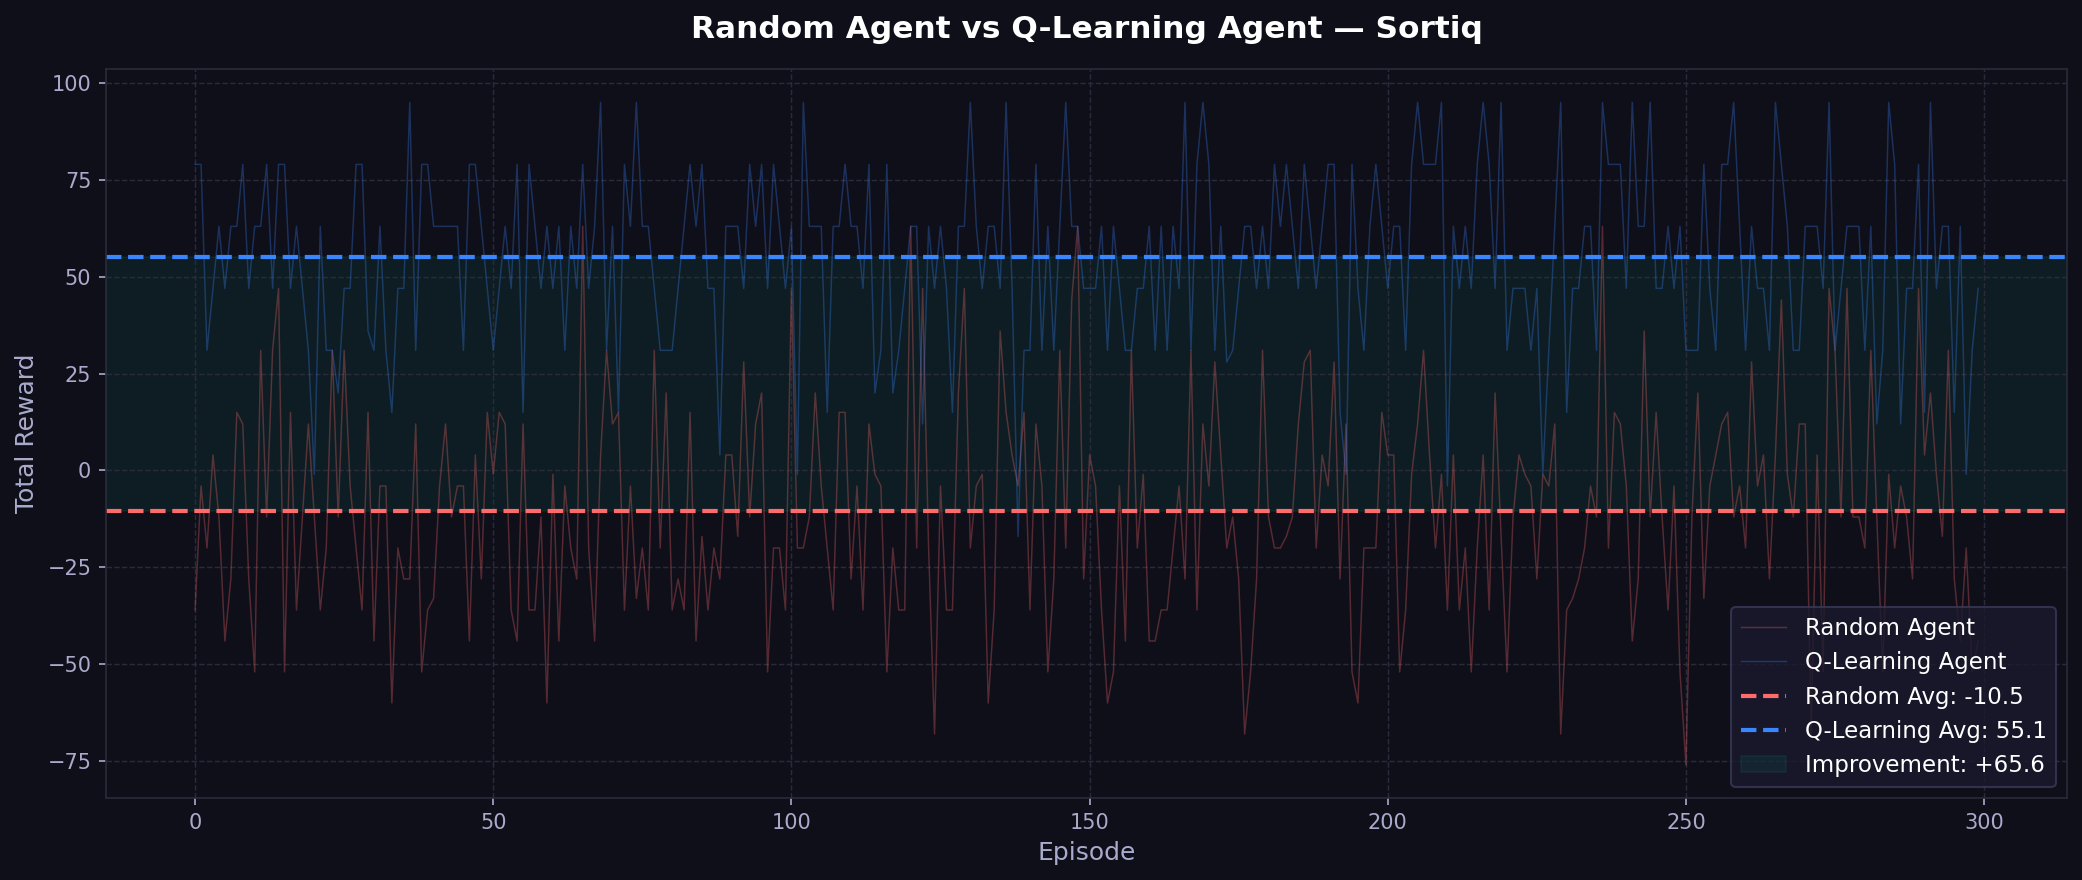
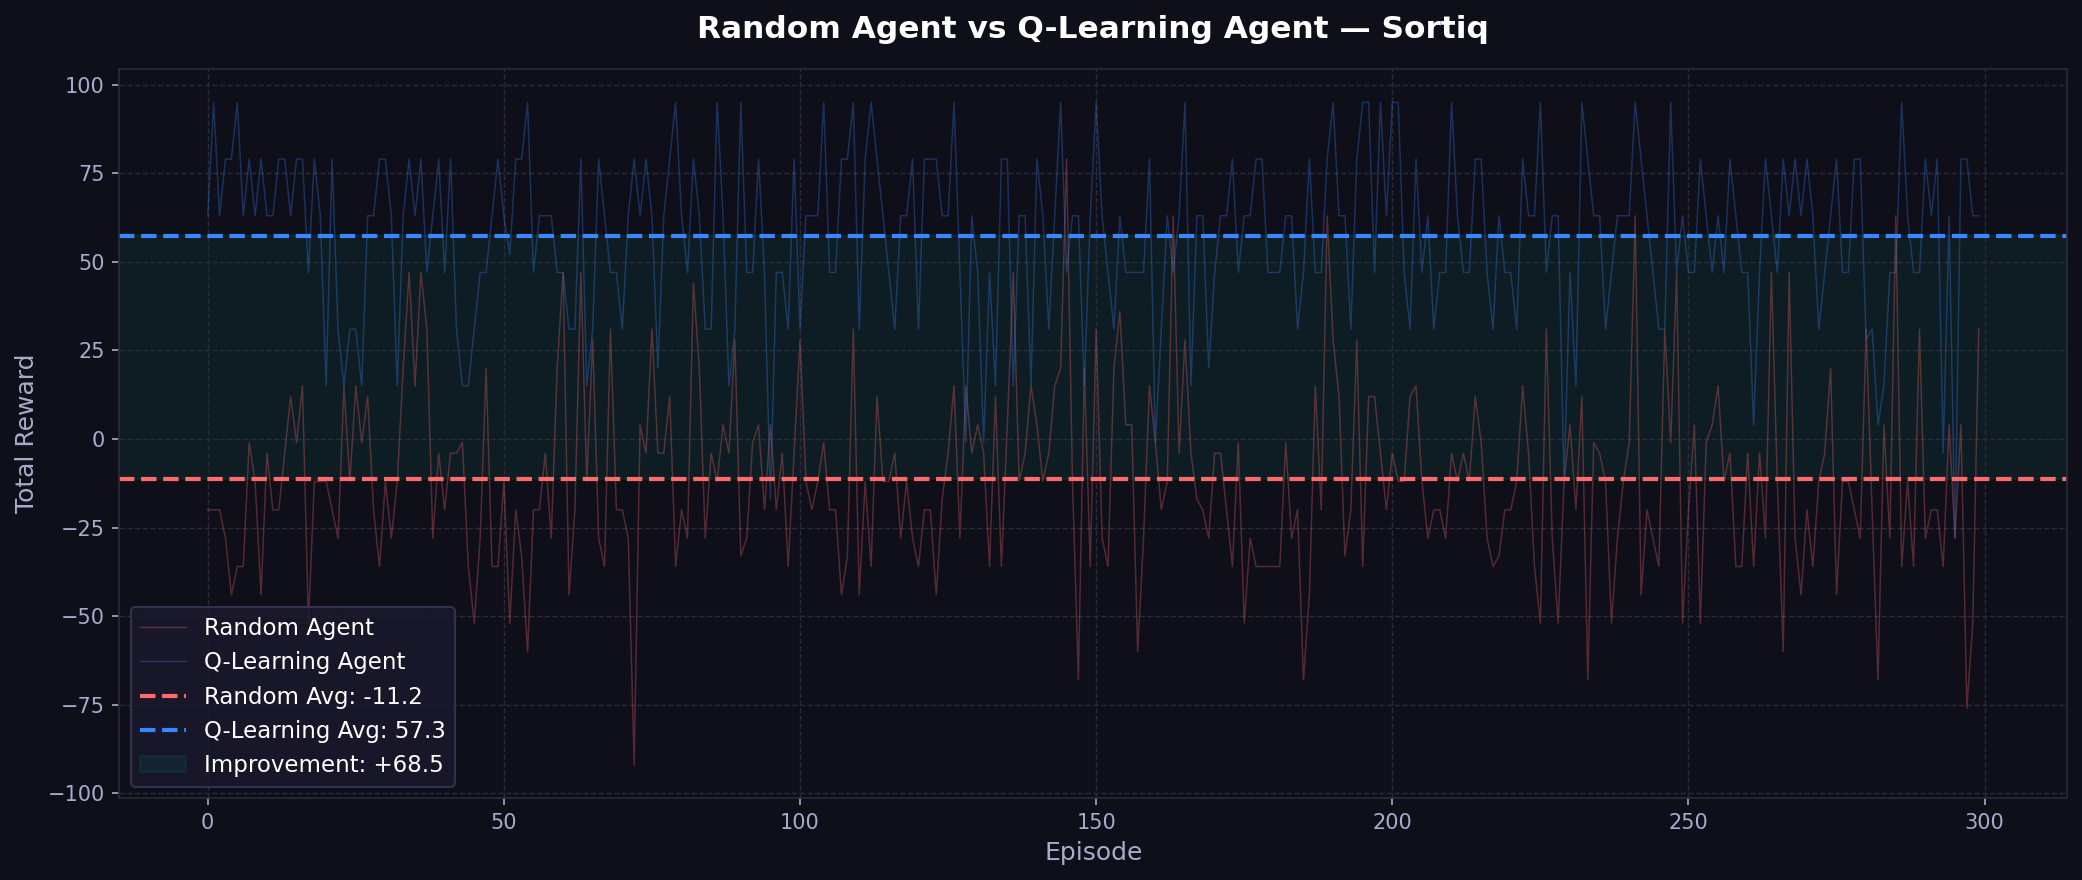
🚀 FINAL: Simple full-width blog with fixed GitHub images

diff --git a/client/components/TechBlog.jsx b/client/components/TechBlog.jsx
@@ -1,110 +1,90 @@
 const TechBlog = () => {
   return (
-    <article id="tech-blog" className="w-full bg-[#050508] text-gray-400 font-sans selection:bg-[#3a86ff]/30 py-24 px-8 md:px-16 flex flex-col items-center">
-      <div className="w-full max-w-[1400px] space-y-32">
+    <article id="tech-blog" className="w-full bg-[#050508] text-gray-400 font-sans selection:bg-[#3a86ff]/30 py-24 px-8 md:px-20">
+      <div className="w-full space-y-32">
         
-        {/* PROJECT HEADER */}
-        <header className="space-y-6 border-b border-white/5 pb-16">
-          <h1 className="text-4xl md:text-5xl font-bold tracking-tight text-white uppercase font-mono">
-            Project: Sortiq // RL Learning Environment
+        {/* SECTION 1: PROJECT PURPOSE */}
+        <section className="space-y-8 border-b border-white/5 pb-16">
+          <h1 className="text-3xl md:text-5xl font-bold tracking-tight text-white uppercase font-mono">
+            Project Purpose // RL Learning
           </h1>
-          <p className="text-xl text-gray-500 max-w-4xl leading-relaxed">
-            This project was built to understand the fundamentals of Reinforcement Learning. It is a classification task under physical constraints, where an agent learns to prioritize actions based on environmental state rather than just simple labels.
+          <p className="text-xl leading-relaxed text-gray-400 max-w-5xl">
+            I built Sortiq to understand how Reinforcement Learning works in a real-world scenario with physical constraints. Instead of just classifying images, the agent has to make decisions based on its remaining resources. This project helped me grasp the <strong>State-Action-Reward</strong> loop and the Bellman Equation.
           </p>
-        </header>
+        </section>
 
-        <div className="grid lg:grid-cols-2 gap-24">
-          {/* SECTION 1: PURPOSE & ENV */}
-          <section className="space-y-10">
-            <div className="space-y-4">
-              <h2 className="text-xl font-mono text-[#3a86ff] tracking-[0.3em] uppercase">01 // Purpose & Environment</h2>
-              <div className="h-[1px] w-20 bg-[#3a86ff]" />
-            </div>
-            <div className="space-y-6 text-lg leading-relaxed font-light">
-              <p>
-                The goal was to move beyond static datasets and explore a <strong>Markov Decision Process (MDP)</strong>. In this environment, the agent must sort items while managing two critical constraints:
-              </p>
-              <ul className="space-y-4 list-disc list-inside text-gray-500">
-                <li><span className="text-white">Storage Limit:</span> The store can only hold 6 items. Overfilling causes a system crash.</li>
-                <li><span className="text-white">Energy Limit:</span> Every action (Store or Crush) costs energy. The agent must survive 10 items per episode.</li>
-              </ul>
-              <p>
-                This forced me to implement a reward structure that balances accuracy with survival—the agent eventually learns to "wait" when resources are low.
-              </p>
-            </div>
-          </section>
-
-          {/* SECTION 2: REWARD LOGIC */}
-          <section className="space-y-10">
-            <div className="space-y-4">
-              <h2 className="text-xl font-mono text-[#00ff9f] tracking-[0.3em] uppercase">02 // Reward & Agent</h2>
-              <div className="h-[1px] w-20 bg-[#00ff9f]" />
-            </div>
-            <div className="space-y-6">
-               <p className="text-lg font-light">
-                 I implemented a <strong>Q-Learning</strong> agent using a discrete Q-Table. The agent updates its understanding of state-action pairs using the Bellman Equation:
-               </p>
-               <div className="bg-black/40 border border-white/5 p-8 rounded-xl font-mono text-sm space-y-4">
-                 <div className="flex justify-between border-b border-white/10 pb-2">
-                   <span className="text-gray-600 uppercase">Correct_Sort</span>
-                   <span className="text-[#00ff9f]">+8.0 pts</span>
-                 </div>
-                 <div className="flex justify-between border-b border-white/10 pb-2">
-                   <span className="text-gray-600 uppercase">Wrong_Sort</span>
-                   <span className="text-[#ff3355]">-8.0 pts</span>
-                 </div>
-                 <div className="flex justify-between border-b border-white/10 pb-2">
-                   <span className="text-gray-600 uppercase">System_Crash</span>
-                   <span className="text-[#ff3355] font-bold">-20.0 pts</span>
-                 </div>
-                 <p className="text-[10px] text-gray-700 italic pt-2">// State = (storage_count, energy_left, item_type)</p>
-               </div>
-            </div>
-          </section>
-        </div>
-
-        {/* SECTION 3: PROOFS & ANALYTICS */}
-        <section className="space-y-16 pt-16 border-t border-white/5">
-          <div className="space-y-4">
-            <h2 className="text-xl font-mono text-[#ffd32a] tracking-[0.3em] uppercase text-center">03 // Proof of Learning</h2>
-            <p className="text-center text-gray-500 max-w-2xl mx-auto">
-              Comparing a random agent (no learning) against our trained Q-Table agent shows clear convergence.
+        {/* SECTION 2: THE ENVIRONMENT & CONSTRAINTS */}
+        <section className="space-y-8">
+          <h2 className="text-2xl font-mono text-[#3a86ff] tracking-[0.3em] uppercase">01 // Environment & Constraints</h2>
+          <div className="space-y-6 text-xl text-gray-500 leading-relaxed max-w-5xl">
+            <p>
+              The simulation is a <strong>Constrained MDP</strong>. The agent isn't just sorting items; it's managing a system that can fail. 
             </p>
+            <ul className="space-y-4 list-disc list-inside">
+              <li><span className="text-white">Storage Capacity:</span> Only 6 items can be stored. If the agent stores a 7th item, the system crashes.</li>
+              <li><span className="text-white">Energy Management:</span> Actions cost energy. The agent has to decide if an item is worth the energy cost to sort it.</li>
+            </ul>
           </div>
+        </section>
 
-          <div className="grid md:grid-cols-2 gap-12">
-            <div className="space-y-6">
-              <div className="bg-[#05050a] border border-white/5 p-6 rounded-xl">
-                <img 
-                  src="/assets/comparison.png" 
-                  alt="Training Performance" 
-                  className="w-full opacity-90"
-                />
+        {/* SECTION 3: REWARD LOGIC */}
+        <section className="space-y-8">
+          <h2 className="text-2xl font-mono text-[#00ff9f] tracking-[0.3em] uppercase">02 // Reward Logic (The Q-Table)</h2>
+          <div className="space-y-6 text-xl text-gray-500 leading-relaxed max-w-5xl">
+            <p>
+              The agent uses <strong>Q-Learning</strong> to update its weights. I designed the reward signal to punish system failures more than simple sorting errors.
+            </p>
+            <div className="bg-black/40 border border-white/5 p-10 rounded-2xl font-mono text-lg space-y-4 max-w-3xl">
+              <div className="flex justify-between border-b border-white/10 pb-2">
+                <span>Correct Sort</span>
+                <span className="text-[#00ff9f]">+8.0</span>
               </div>
-              <p className="text-center text-xs font-mono text-gray-700 uppercase tracking-widest">
-                Fig 3.1 // Trained Agent vs Random Baseline
-              </p>
-            </div>
-            
-            <div className="flex flex-col justify-center space-y-8">
-              <div className="border-l-4 border-[#ffd32a] pl-8 space-y-4">
-                <h3 className="text-2xl font-bold text-white tracking-tight">The Training Curve</h3>
-                <p className="text-lg text-gray-400 font-light leading-relaxed">
-                  As shown in the data, the agent initially fails almost 100% of the time. Around episode 2,000, it begins to understand the "survival" penalty, and by episode 15,000, it reaches a steady state of nearly perfect sorting within the given constraints.
-                </p>
+              <div className="flex justify-between border-b border-white/10 pb-2">
+                <span>Wrong Sort</span>
+                <span className="text-[#ff3355]">-8.0</span>
+              </div>
+              <div className="flex justify-between border-b border-white/10 pb-2">
+                <span>System Crash</span>
+                <span className="text-[#ff3355] font-bold">-20.0</span>
               </div>
             </div>
           </div>
         </section>
 
-        {/* FOOTER */}
-        <footer className="pt-24 border-t border-white/5 flex justify-between items-center text-[10px] font-mono text-gray-800 uppercase tracking-[0.5em]">
-          <span>Sortiq RL Project // Durgaprasad Reddy</span>
-          <div className="flex gap-8">
-            <span>Next.js</span>
-            <span>FastAPI</span>
-            <span>Q-Learning</span>
+        {/* SECTION 4: PROOF & ANALYTICS */}
+        <section className="space-y-20 pt-16 border-t border-white/5">
+          <div className="space-y-8">
+            <h2 className="text-2xl font-mono text-[#ffd32a] tracking-[0.3em] uppercase">03 // Proof of Learning (Trained vs Random)</h2>
+            <p className="text-xl text-gray-500 max-w-5xl">
+              The graph below compares my trained Q-Learning agent against a random baseline. You can see the agent successfully learns to avoid crashes and maximize its score after training.
+            </p>
+            <div className="bg-black/60 border border-white/5 p-4 rounded-3xl overflow-hidden">
+              <img 
+                src="https://raw.githubusercontent.com/Durgaprasad-Developer/Sortiq/main/assets/comparison.png" 
+                alt="Baseline Comparison" 
+                className="w-full h-auto opacity-90 shadow-2xl"
+              />
+            </div>
           </div>
+
+          <div className="space-y-8">
+            <h2 className="text-2xl font-mono text-[#ff6b35] tracking-[0.3em] uppercase">04 // Training Curve</h2>
+            <p className="text-xl text-gray-500 max-w-5xl">
+              This curve shows the reward stabilization over 15,000 episodes. The initial volatility represents the agent exploring the environment and failing, while the latter half shows convergence.
+            </p>
+            <div className="bg-black/60 border border-white/5 p-4 rounded-3xl overflow-hidden">
+              <img 
+                src="https://raw.githubusercontent.com/Durgaprasad-Developer/Sortiq/main/assets/training_curve.png" 
+                alt="Training Curve" 
+                className="w-full h-auto opacity-90 shadow-2xl"
+              />
+            </div>
+          </div>
+        </section>
+
+        {/* FOOTER */}
+        <footer className="pt-20 border-t border-white/5 text-[12px] font-mono text-gray-700 tracking-[0.5em] uppercase">
+          Sortiq RL System // Built by Durgaprasad Reddy
         </footer>
 
       </div>
